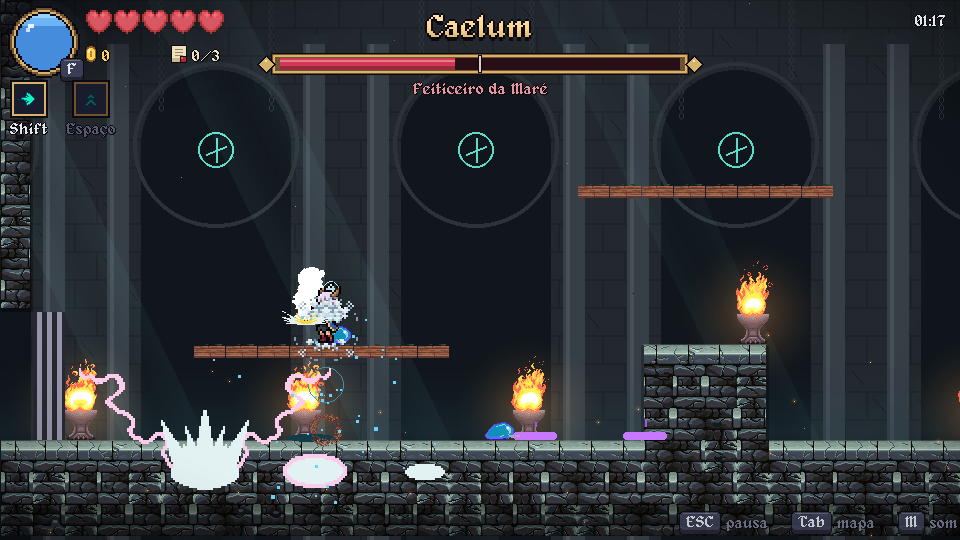
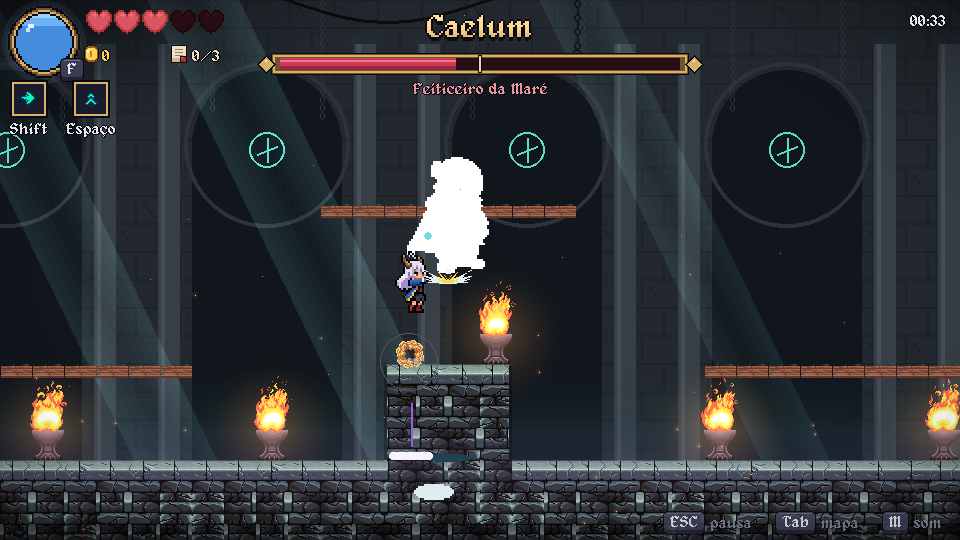
Atirador com arma e aviso de mira, diabrete animado e retrato da capitã caída
Pistoleiro e goblin mostram a arma e uma linha de mira antes do tiro;
diabrete com animação própria; retrato da capitã caída no estilo dos
outros; capturas dos chefes atualizadas. Instalador na versão 1.3.

diff --git a/tools/animar_pose.py b/tools/animar_pose.py
@@ -48,6 +48,8 @@ POSES = {
     # criaturas mágicas da folha da equipe: flutuam (sem passada) e conjuram no ataque
     "espirito": ("npcs.png#18", 50, 0.55, 0, False, True),
     "lich": ("npcs.png#22", 73, 0.55, 0, False, True),
+    # diabrete: voa (sem passada); no ataque recolhe as asas e mergulha de cabeça
+    "diabrete": ("npcs.png#17", 47, 0.55, 0, False, "mergulho"),
 }
 FRAMES = {"idle": 4, "walk": 6, "attack": 3}
 PAD = 6                                   # folga lateral para a passada e o ataque
@@ -185,8 +187,29 @@ def conjurar(base, hip):
     return [recolhe, brilho, lanca]
 
 
+def mergulhar(base, hip):
+    """Ataque do diabrete: sobe recolhido, depois mergulha inclinado para a frente e para baixo."""
+    w, h = base.get_size()
+    recolhe = pygame.Surface((w, h), pygame.SRCALPHA)
+    recolhe.blit(inclinar(base, hip, -4), (0, -1))
+    quadros = [recolhe]
+    for ang, dx, dy in ((-14, 1, 1), (-22, 2, 2)):
+        # corpo todo inclinado de cabeça para a frente (giro sem suavizar, pixel art preservado)
+        g = pygame.transform.rotate(inclinar(base, hip, 3), ang)
+        q = pygame.Surface((w, h), pygame.SRCALPHA)
+        q.blit(g, g.get_rect(center=(w // 2 + dx, h // 2 + dy)))
+        quadros.append(q)
+    return quadros
+
+
+# modelos da folha da equipe que já olham para a direita (não viram ao recortar)
+JA_OLHA_DIREITA = {"diabrete"}
+
+
 def gerar(nome, arquivo, altura, quadril, passada, quadrupede, magico=False):
     src = carregar(arquivo)
+    if nome in JA_OLHA_DIREITA:
+        src = pygame.transform.flip(src, True, False)
     src = src.subsurface(src.get_bounding_rect()).copy()
     body = reduzir(src, altura)
     bw, bh = body.get_size()
@@ -214,7 +237,9 @@ def gerar(nome, arquivo, altura, quadril, passada, quadrupede, magico=False):
             q2.blit(cisalhar(base, hip, -2, True, 1), (avanco // 2, 0))
             q = inclinar(q2, hip, avanco // 2)
         linhas["attack"].append(q)
-    if magico:
+    if magico == "mergulho":
+        linhas["attack"] = mergulhar(base, hip)
+    elif magico:
         linhas["attack"] = conjurar(base, hip)
 
     cols = max(FRAMES.values())
@@ -229,11 +254,19 @@ def gerar(nome, arquivo, altura, quadril, passada, quadrupede, magico=False):
 def main():
     pygame.init()
     pygame.display.set_mode((8, 8))
+    # python tools/animar_pose.py [nomes...]: só refaz os nomes dados (os outros ficam como estão)
+    so = sys.argv[1:]
+    caminho = os.path.join(DEST, "anim_poses.json")
     meta = {}
+    if so and os.path.exists(caminho):
+        with open(caminho, encoding="utf-8") as f:
+            meta = json.load(f)
     for nome, args in POSES.items():
+        if so and nome not in so:
+            continue
         meta[nome] = gerar(nome, *args)
         print(nome, meta[nome]["frame"])
-    with open(os.path.join(DEST, "anim_poses.json"), "w", encoding="utf-8") as f:
+    with open(caminho, "w", encoding="utf-8") as f:
         json.dump(meta, f, indent=1, ensure_ascii=False)
 
 

diff --git a/src/creatures.py b/src/creatures.py
@@ -114,6 +114,23 @@ def draw_model(surf, name, x, foot_y, t, facing, moving=False, white=False, lean
                     slash = sprites.variant(frames[int(t * 18) % len(frames)], facing < 0)
                     surf.blit(slash, slash.get_rect(center=(round(x + facing * 22), round(foot_y - 30))))
             return
+    if name == "diabrete":
+        # Folha de tools/animar_pose.py: flutua batendo; no alerta recolhe; na perseguição mergulha.
+        if state == "alert":
+            pose, ph = "attack", 0.5 / 3
+        elif state == "chase" or lean:
+            pose, ph = "attack", (1.5 + int(t * 10) % 2) / 3
+        else:
+            pose, ph = "idle", t * 1.6
+        quadro, pe = sprites.pose_anim(name, pose, ph)
+        if quadro is not None:
+            v = quadro
+            if alpha < 255:
+                v = quadro.copy()
+                v.set_alpha(alpha)
+            lift = round(math.sin(t * 2.5) * float_amp)
+            sprites.blit_anchor(surf, v, x, foot_y + lift, pe, flip=facing < 0, white=white, scale=scale)
+            return
     if name in ("espirito", "lich"):
         # Conjuração (tools/animar_pose.py): recolhe, carrega com brilho e lança para a frente.
         # Lich: alterna recolher/carregar no aviso do tiro. Espírito: carrega no alerta, lança ao perseguir.

diff --git a/src/objects.py b/src/objects.py
@@ -265,12 +265,14 @@ def draw_portrait(surf, style, box, time=0.0):
     r = art.get_bounding_rect()
     if r.w == 0:
         return False
-    if style != "corpo":                                        # busto: cabeça e tronco
-        r = pygame.Rect(r.x, r.y, r.w, max(8, round(r.h * 0.55)))
+    r = pygame.Rect(r.x, r.y, r.w, max(8, round(r.h * 0.55)))   # busto: cabeça e tronco
     art = art.subsurface(r)
     k = max(1, min((box.w - 12) // r.w, (box.h - 12) // r.h))
     img = pygame.transform.scale(art, (r.w * k, r.h * k))
     bob = round(math.sin(time * 2) * 1)
+    if style == "corpo":                       # Capitã caída: mesmo busto, apagado e parado
+        img.fill((150, 156, 180, 255), special_flags=pygame.BLEND_RGBA_MULT)
+        bob = 0
     surf.blit(img, img.get_rect(midbottom=(box.centerx, box.bottom - 6 + bob)))
     return True
 

diff --git a/docs/PENDENCIAS.md b/docs/PENDENCIAS.md
@@ -61,7 +61,8 @@ Medição e sons (06/11, sem commit):
   dificuldades, **0 problemas**: portas levam à sala certa, prancha do Convés trancada antes do Aldric e aberta
   depois, recompensas (Levitação, fragmento) aparecem, arenas reabrem, 3 páginas e final verdadeiro.
   O bot se teleporta dentro da sala (alcance fica com `try_reach`). Rodado sobre o mapa de 06/11 cedo:
-  **rodar de novo depois que a Fases terminar** os atiradores `a` e os inimigos novos.
+  rodado de novo depois da Fases (atiradores nas 7 salas, vala da Praia, desafio do Porão 2): **0 problemas**
+  nas 3 dificuldades; lutas acordadas no Normal 12/19/39/51 s. Nada a corrigir nem a repassar.
 
 ## Interface
 
@@ -264,7 +265,37 @@ Pendente:
 - Suíte (3/11): 433/436. `test_render_all` caía em `PirateSister.alpha`; já corrigido no `draw` (render passa).
   As outras duas falhas são de volta ao checkpoint (`volta ao último checkpoint`, água do porao2): área de gameplay.
 
+### Arte (6/11, sem commit)
+
+Feito (capturas `r2_*` em `arte_capturas` na pasta de notas):
+- Navio (`background.py`): cone e poça de luz quente embaixo das lanternas (param no primeiro piso ou plataforma),
+  feixe de luar das escotilhas, poças das lanternas da amurada no convés, rolos de corda, baldes, redes de pesca
+  e teias nos cantos do teto, bolhas subindo na água do porão. Luzes somadas por cima da cena, fracas.
+- Blocos de madeira (`tiles.py`): variação rara no topo (limo escorrendo no porão; chapa de ferro e tábua remendada
+  no convés e interior).
+- Ilha, ruínas e templo: arbustos, brotos e pedras do tileset da ilha e tocos de coluna de pedra no chão, escurecidos
+  (plano de trás); poça de luz dos braseiros.
+- Atirador `a` (`creatures._ArmaMixin`): pistoleiro com pistola na mão (baixa, mira, para cima na recarga com fumaça);
+  goblin com pedra pontuda erguida atrás da cabeça na mira. Aviso: linha pontilhada na direção do tiro (laranja,
+  fica vermelha e mais densa quando a mira trava), anel que fecha na boca da arma e brilho antes do disparo.
+- Diabrete: folha `anim_diabrete.png` (`tools/animar_pose.py diabrete`; a ferramenta agora aceita nomes e só refaz
+  esses). Flutua parado, recolhe no alerta e mergulha inclinado na perseguição. Antes aparecia virado ao contrário.
+- Retrato da Capitã caída (`objects.draw_portrait`, estilo `corpo`): busto como os outros, apagado e parado
+  (antes saía o corpo inteiro minúsculo).
+- Espírito/lich e a folga de 3 px de `draw_character` já estavam feitos na rodada de 3/11.
+- Suíte completa sem janela: 503/503.
+
+Falta:
+- Conferir em jogo (com janela, quando o Gabriel puder) a intensidade das luzes e se o aviso de mira está claro.
+- Ciclos de ataque restantes da lista acima (lobo, goblin, ladino, cavaleiro do escudo, Selka, Caelum).
+- Usar os pacotes `ch_02_world_building_foundations` etc. em `assets internet` se quiser trocar a decoração
+  desenhada em código por arte de pacote.
+
 ## Integração e testes
+
+Feito (06/11, v1.3):
+- Suíte completa sem janela: 503/503. Commit em `main`, `.exe` portátil e instalador novos, release `v1.3`
+  com a tag no commit da versão.
 
 Feito (06/11):
 - Suíte completa: 494/494 (inimigos mais desafiadores, figurantes reduzidos, capitã caída, cenários).
